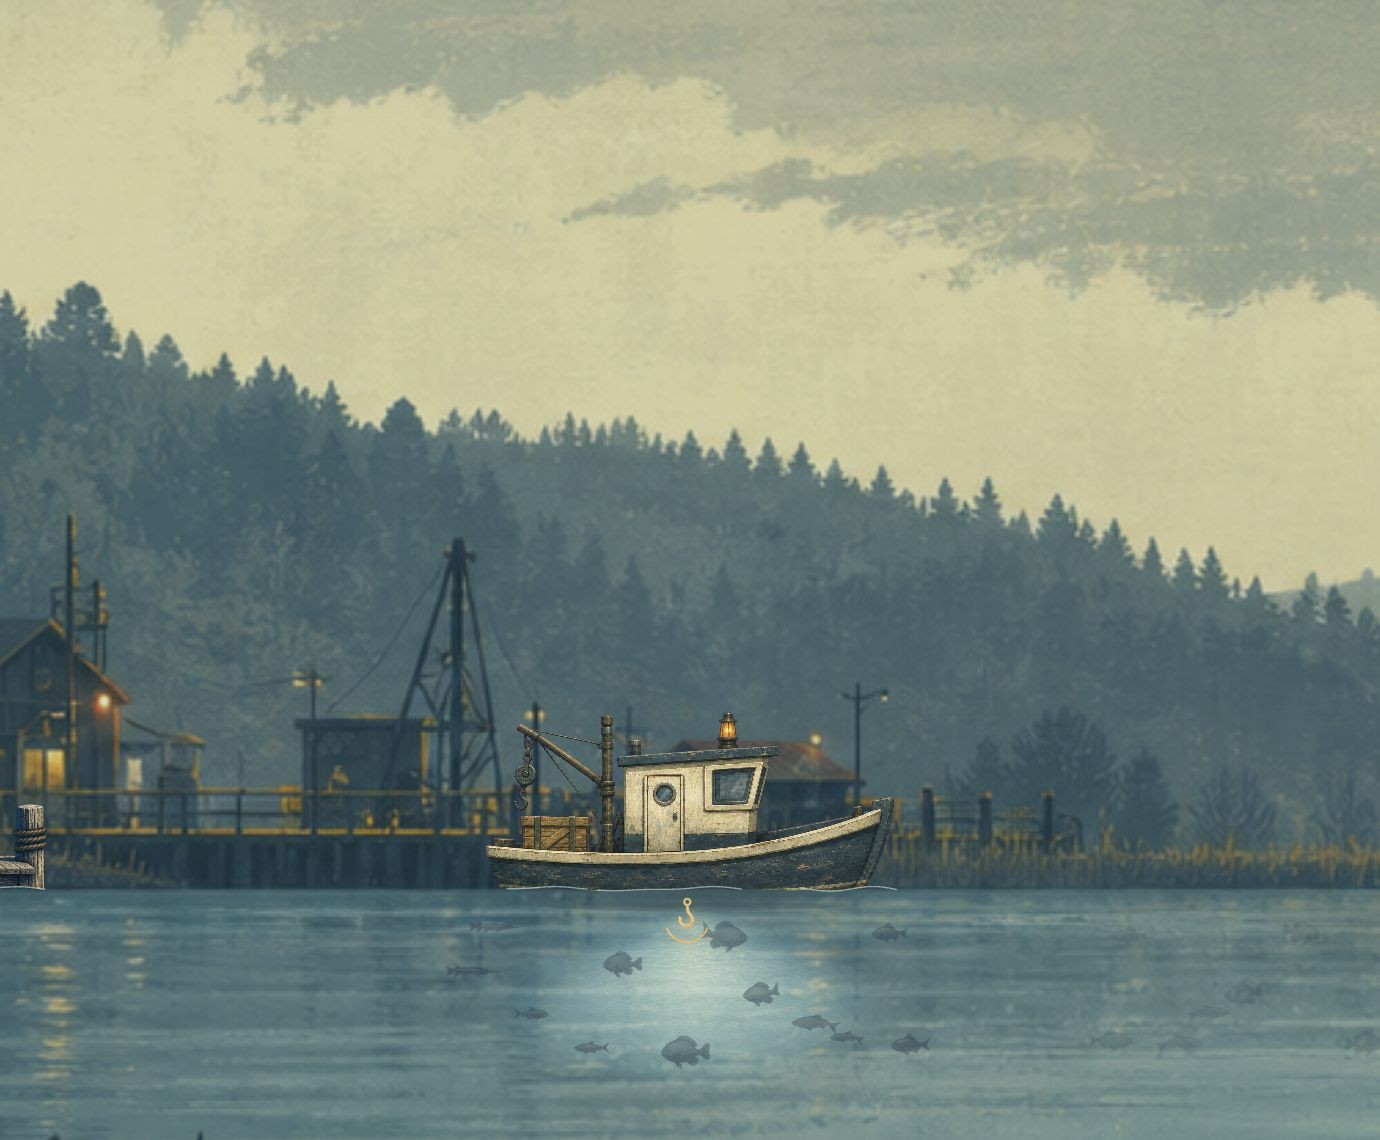
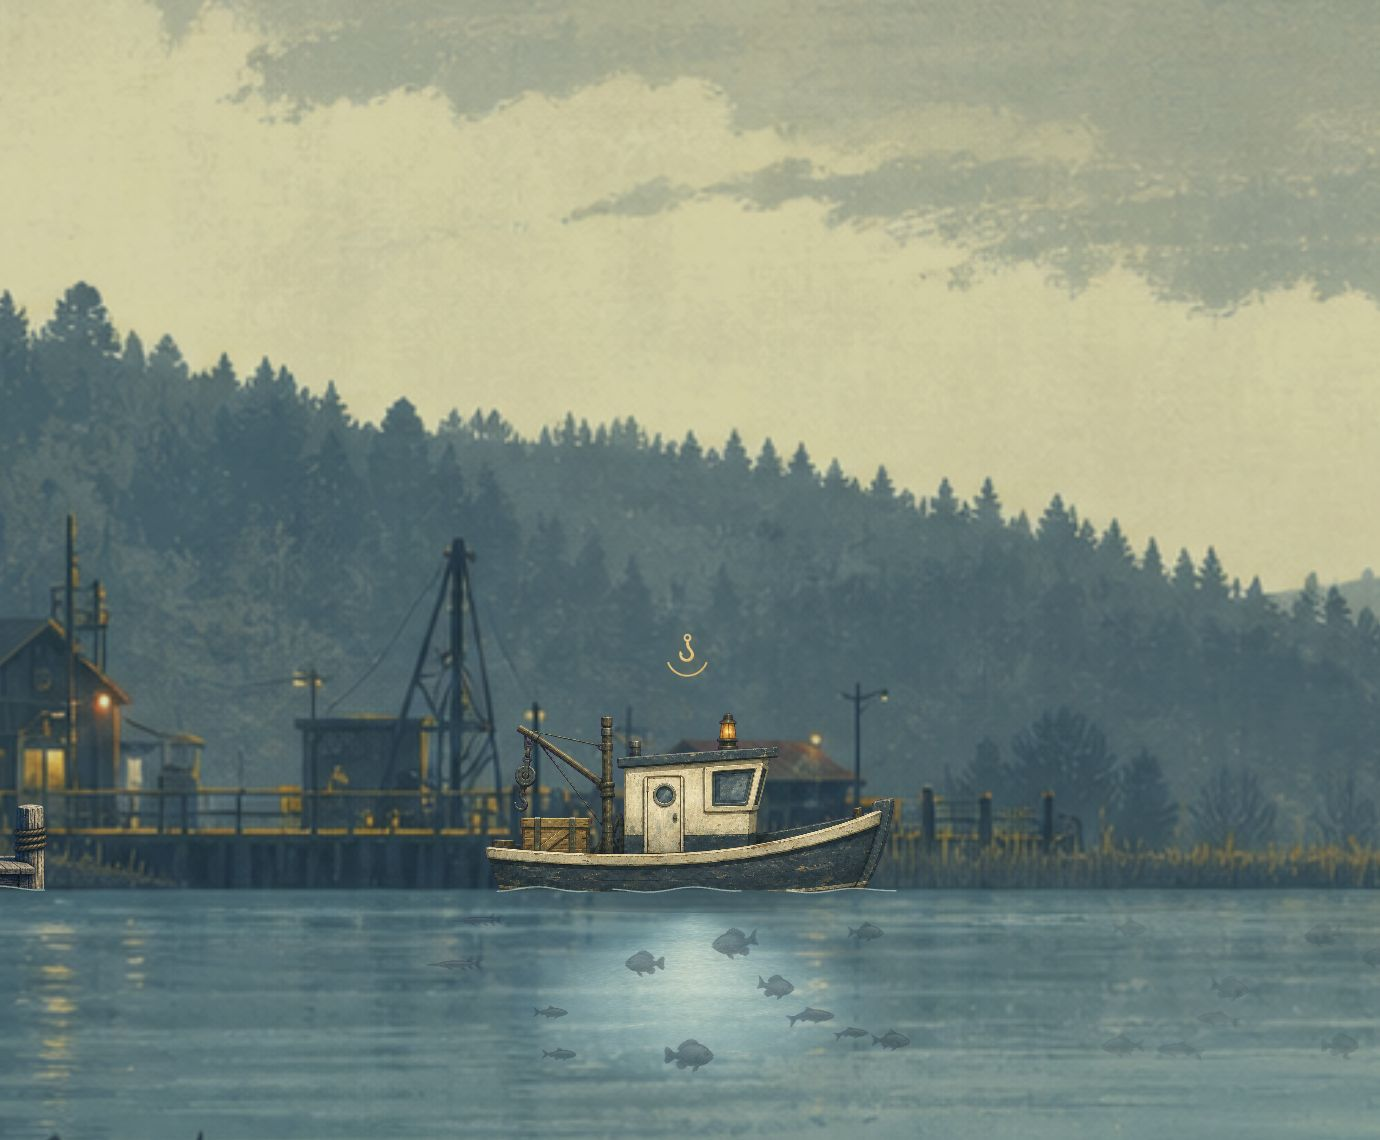
fix: anchor fishing hook above spot

Changed region(s): [[0.3428, 0.6447, 0.6543, 0.8596], [0.5297, 0.8289, 0.6543, 0.9211], [0.4674, 0.8904, 0.4986, 0.9211]]

diff --git a/src/game/renderer.ts b/src/game/renderer.ts
@@ -145,7 +145,7 @@ export class CanvasRenderer {
 
     this.drawBoat(simulation, camera, width, height, waterline, surfaceLayer, settings);
 
-    let activeFishingCue: { cue: SurfaceFishingCue; enabled: boolean } | null = null;
+    let activeFishingCue: { cue: SurfaceFishingCue; x: number; enabled: boolean } | null = null;
     const interactionPrompt = getInteractionPrompt(simulation);
     for (const [spotIndex, spot] of FISHING_SPOTS.entries()) {
       const x = worldToScreenX(spot.x, camera, width);
@@ -167,22 +167,21 @@ export class CanvasRenderer {
         highContrast: settings.highContrast,
       });
       if (cue.hookVisibility > 0 && interactionPrompt?.kind === "fishing" && interactionPrompt.spot === spot.id) {
-        activeFishingCue = { cue, enabled: interactionPrompt.enabled };
+        activeFishingCue = { cue, x, enabled: interactionPrompt.enabled };
       }
     }
 
     if (activeFishingCue) {
-      const boatX = worldToScreenX(simulation.boat.x, camera, width);
-      const hookY = waterline + clamp(height * 0.055, 30, 46);
+      const hookY = waterline - clamp(height * 0.22, 118, 220);
       this.drawSurfaceHookCue(
-        boatX,
+        activeFishingCue.x,
         hookY,
         activeFishingCue.cue.hookVisibility,
         activeFishingCue.enabled,
         simulation.elapsed,
         settings,
       );
-      this.interactionAnchor = { x: boatX, y: hookY };
+      this.interactionAnchor = { x: activeFishingCue.x, y: hookY };
     }
 
     this.drawObjective(simulation, camera, width, height);

diff --git a/e2e/game.spec.ts b/e2e/game.spec.ts
@@ -154,6 +154,22 @@ test("surface shoals reveal the hook only inside fishing interaction range", asy
   await expect(action).toHaveCSS("width", "78px");
   await expect(action).toHaveCSS("background-color", "rgba(0, 0, 0, 0)");
 
+  const canvasBounds = await page.locator("#game-canvas").boundingBox();
+  const initialHookBounds = await action.boundingBox();
+  expect(canvasBounds).not.toBeNull();
+  expect(initialHookBounds).not.toBeNull();
+  expect(initialHookBounds!.y + initialHookBounds!.height).toBeLessThan(
+    canvasBounds!.y + canvasBounds!.height * 0.68,
+  );
+
+  const initialHookLeft = Number.parseFloat(await action.evaluate((element) => (element as HTMLElement).style.left));
+  await page.keyboard.down("KeyD");
+  await page.waitForTimeout(1_000);
+  await page.keyboard.up("KeyD");
+  await expect(action).toBeVisible();
+  const shiftedHookLeft = Number.parseFloat(await action.evaluate((element) => (element as HTMLElement).style.left));
+  expect(shiftedHookLeft).toBeLessThan(initialHookLeft - 8);
+
   await page.evaluate(() => window.__FSHING_TEST__?.sailToHarbor("gloam"));
   await expect(action).not.toHaveClass(/is-fishing-cue/);
 });

diff --git a/design-qa.md b/design-qa.md
@@ -6,12 +6,12 @@
 - Final implementation capture: `Docs/screenshots/06-fishing-spot-hybrid.jpg`.
 - Discovery capture: `Docs/screenshots/07-fishing-spot-discovery.jpg`.
 - Mobile accessibility capture: `Docs/screenshots/08-fishing-spot-mobile-accessibility.jpg`.
-- Full comparison: `/Users/liam/.codex/visualizations/2026/08/05/019fd145-e573-7c23-a56c-8ad5c07df804/fishing-spot-final-comparison.jpg`.
-- Focused comparison: `/Users/liam/.codex/visualizations/2026/08/05/019fd145-e573-7c23-a56c-8ad5c07df804/fishing-spot-final-focus.jpg`.
+- Full hook-placement comparison: `/Users/liam/.codex/visualizations/2026/08/05/019fd145-e573-7c23-a56c-8ad5c07df804/fishing-spot-hook-above-comparison.jpg`.
+- Focused hook, boat, and shoal comparison: `/Users/liam/.codex/visualizations/2026/08/05/019fd145-e573-7c23-a56c-8ad5c07df804/fishing-spot-hook-above-focus.jpg`.
 - Desktop viewport: 1380 × 1140 CSS pixels at DPR 1, matching the reference dimensions.
 - Mobile viewport: 844 × 390 CSS pixels at DPR 1.
 - Desktop state: first contract accepted, boat centered at Sunward Shoal, inside interaction range, normal contrast and motion, tutorial and toast visually dismissed.
-- Mobile state: Sunward Shoal in range, high contrast and reduced motion enabled, touch controls visible.
+- Mobile state: Sunward Shoal in range, normal contrast and motion, touch controls visible.
 
 ## Comparison history
 
@@ -19,6 +19,7 @@
 2. **P1 — asset fidelity:** the early lens and cue were procedural and visually too geometric. All visible surface fish, hook, arc, and polarized-lens art were replaced with dedicated GPT Image outputs; Canvas now only positions, fades, scales, and animates those sprites.
 3. **P2 — scale and density:** an initial generated-asset pass made the fish and hook too large and dispersed. Fish scale, shoal width, hook scale, and depth distribution were tightened to match the compact school in the approved directions.
 4. **P2 — discovery readability:** the distant school was too close to invisible. Its minimum visibility was raised while the lens still ramps only on approach and the hook remains exactly hidden outside interaction range.
+5. **P1 — hook position and ownership:** the first delivered hybrid placed the hook at sea level and recomputed its horizontal position from the boat. The revised implementation anchors the hook to the fishing ground's projected world position and places it in clear air above the boat, matching Direction A. A browser test moves the boat within the interaction radius and confirms the hook shifts on screen with the ground rather than staying attached to the boat.
 
 ## Required fidelity surfaces
 
@@ -28,7 +29,7 @@ The approved fishing cue contains no persistent type. The implementation removes
 
 ### Spacing and layout
 
-The hook sits directly below the hull and above the highest fish, while the school occupies the generated clarity lens beneath the boat. Direction A's wider living school and Direction B's localized vertical lens/hook relationship are combined. The production panorama has a lower waterline and larger boat than the concept renders; preserving the game's existing camera, panorama, and boat scale is an intentional scope constraint rather than a cue mismatch.
+The hook is centered above the fishing ground in clear air, with the ground, lens, and school sharing one world-space horizontal anchor. It stays fixed to that ground while the boat moves inside interaction range. Direction A's above-water hook and wider living school are combined with Direction B's localized lens. The production panorama has a lower waterline and larger boat than the concept renders; preserving the game's existing camera, panorama, and boat scale is an intentional scope constraint rather than a cue mismatch.
 
 ### Color and tokens
 
@@ -46,8 +47,8 @@ Permanent fishing-ground names, species labels, buoy-like landmarks, and interac
 
 - Desktop normal mode: cue is centered, unobscured, and readable against the harbor panorama.
 - Far discovery state: submerged fish remain faintly discoverable; the hook control is hidden.
-- Mobile high-contrast/reduced-motion state: the cue fits between the boat and touch controls with no overlap; motion freezes to deterministic poses.
-- Interaction state: the transparent 78 × 78 DOM target follows the Canvas hook and provides a visible focus treatment without duplicating the artwork.
+- Mobile landscape state: the hook remains above the boat and the school remains clear of the touch controls, with no overlap or clipping.
+- Interaction state: the transparent 78 × 78 DOM target follows the fixed-world Canvas hook and provides a visible focus treatment without duplicating the artwork.
 - In-app browser console audit: no errors or warnings in the verified fishing and survey states.
 - Survey interaction opened successfully from the generated hook cue.
 
@@ -58,6 +59,6 @@ Permanent fishing-ground names, species labels, buoy-like landmarks, and interac
 - P2 polish issues: none.
 - P3 note: the production panorama's daytime crop is brighter than the concept images; changing the world panorama was deliberately excluded from this fishing-spot-only rework.
 
-## Result
+## Final result
 
 passed

diff --git a/Docs/Game-Brief.md b/Docs/Game-Brief.md
@@ -201,7 +201,7 @@ Fishing is an active supporting mechanic rather than the entire game.
 1. The player notices faint fish movement beneath the lake and steers toward the fishing ground.
 2. A population-aware school is always faintly discoverable; there is no permanent buoy, nameplate, or surface ring.
 3. As the boat approaches, a restrained polarized-water lens clarifies the shoal without turning the lake into a transparent aquarium.
-4. Only after the boat enters interaction range does a compact hook-and-arc cue fade in beneath the hull. Its accessible interaction label supplies the site name and any permit, line-depth, speed, or cargo restriction without putting persistent text over the lake.
+4. Only after the boat enters interaction range does a compact hook-and-arc cue fade in above the fishing ground. It stays anchored to the ground's world position instead of following the boat, and its accessible interaction label supplies the site name and any permit, line-depth, speed, or cargo restriction without putting persistent text over the lake.
 5. The player drops the line from the boat into the water directly below.
 6. The camera cuts below the surface while the hook descends through a bounded side-view fishing space.
 7. The player steers the hook toward a fish while avoiding weeds, debris, or unwanted species.

diff --git a/Docs/Assessment-Report.md b/Docs/Assessment-Report.md
@@ -102,7 +102,7 @@ flowchart LR
 
 1. Press **Play** and arrive at Brindle Harbor.
 2. Accept **The Morning Order**, which requests a Reedfin for Gloam Ferry.
-3. Follow the faint Sunward Shoal fish activity until the polarized-water lens and hook appear beneath the boat.
+3. Follow the faint Sunward Shoal fish activity until the polarized-water lens strengthens and the hook appears above the fishing ground.
 4. Read: 4 m, 21°C, 8.4 mg/L dissolved oxygen, low turbidity, sunlit reeds.
 5. Predict the Reedfin from three species descriptions.
 6. Read why broad fins help it manoeuvre in reeds, then lower the hook.
